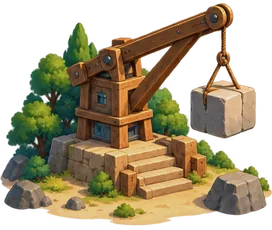
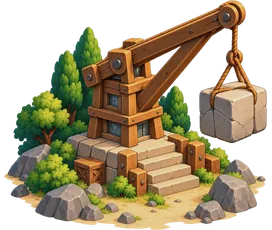
feat: high-resolution topic art and centred topic pages
- Topic vignettes come from new 1254px sources in art/map, exported at
  520 and 1040px (phones always get 520) plus sharper map thumbnails
- Topic art shows at 520px on coming-soon pages and, on screens at least
  1000px tall, on topics with missions; shorter screens keep 420px so the
  mission path stays in view
- Topic page content centres vertically between back link and footer
- Map topic cards keep a fixed 12px gap, sitting at the foot of their
  column so the last card ends level with Σπίθα's panel

diff --git a/src/global.css b/src/global.css
@@ -857,7 +857,7 @@
     overflow-wrap: anywhere;
   }
 
-  .topic-art {
+  .topic-art, .topic-art img {
     display: block;
     width: 100%;
     height: auto;
@@ -865,6 +865,29 @@
 
   .topic-page .back-button {
     margin: 0 0 8px;
+  }
+
+  /* Everything under the back link centres as one group in the height left above the footer. */
+  .topic-page {
+    display: flex;
+    flex-direction: column;
+
+    & > .back-button { align-self: flex-start; }
+    & > .back-button + * { margin-top: auto; }
+    & > :last-child { margin-bottom: auto; }
+  }
+
+  /* The art takes the full size of its source when nothing would fall off screen: always on a coming-soon
+     page, and on a topic with missions once the screen is tall enough to keep the path in view. */
+  .topic-page.is-soon {
+    @media (min-width: 761px) {
+      & > .topic-hero { grid-template-columns: minmax(0, 520px) minmax(0, 460px); }
+    }
+  }
+  .topic-page {
+    @media (min-width: 761px) and (min-height: 1000px) {
+      & > .topic-hero { grid-template-columns: minmax(0, 520px) minmax(0, 460px); }
+    }
   }
 
   /* Topic hero: the island art at full size beside the title and the selected mission (or «Σύντομα»).

diff --git a/src/map/TopicArt.tsx b/src/map/TopicArt.tsx
@@ -2,5 +2,11 @@ import type { TopicId } from '../types.ts'
 
 /** A topic's island vignette, the same artwork as its card on the map; always decorative. */
 export function TopicArt({ topicId, className = '' }: { topicId: TopicId; className?: string }) {
-  return <img className={`topic-art ${className}`} src={`/assets/map/topic-${topicId}.webp`} alt="" width="440" height="372" decoding="async" />
+  const src = (width: number) => `/assets/map/topic-${topicId}-${width}.webp`
+  return <picture className={`topic-art ${className}`}>
+    {/* Phones always get the small file, whatever their pixel density. */}
+    <source media="(max-width: 760px)" srcSet={src(520)} />
+    <img src={src(520)} srcSet={`${src(520)} 520w, ${src(1040)} 1040w`}
+      sizes="520px" alt="" width="1040" height="880" decoding="async" />
+  </picture>
 }

diff --git a/src/pages/TopicPage.tsx b/src/pages/TopicPage.tsx
@@ -31,9 +31,10 @@ function TopicMap({ topic }: { topic: Topic }) {
   const current = currentMission(topic, progress)
   const [selectedId, setSelectedId] = useState<MissionId | undefined>(current?.id)
   const selected = findMission(topic, selectedId) ?? current
-  return <main id="main" className={`topic-page topic-${topic.id}`}>
+  const soon = topic.missions.length === 0 || !selected
+  return <main id="main" className={`topic-page topic-${topic.id}${soon ? ' is-soon' : ''}`}>
     <BackLink className="back-button" to={paths.map}>Πίσω στον χάρτη</BackLink>
-    {topic.missions.length === 0 || !selected
+    {soon
       ? <section className="topic-hero">
           <h1 ref={heading} tabIndex={-1}>{topic.name}</h1>
           <TopicArt topicId={topic.id} />

diff --git a/src/map/archipelago.css b/src/map/archipelago.css
@@ -75,10 +75,11 @@
     position: relative;
     z-index: 1;
     display: grid;
-    gap: 10px;
+    gap: 12px;
 
-    /* Desktop: the list fills its column, spreading the cards so the last one ends level with Σπίθα's panel. */
-    @media (min-width: 900px) { align-self: stretch; align-content: space-between; }
+    /* Desktop: the list sits at the foot of its column, so the last card ends level with Σπίθα's panel;
+       any spare height opens above it, under the title, never between the cards. */
+    @media (min-width: 900px) { align-self: end; }
     margin: 0;
     padding: 0;
     list-style: none;
